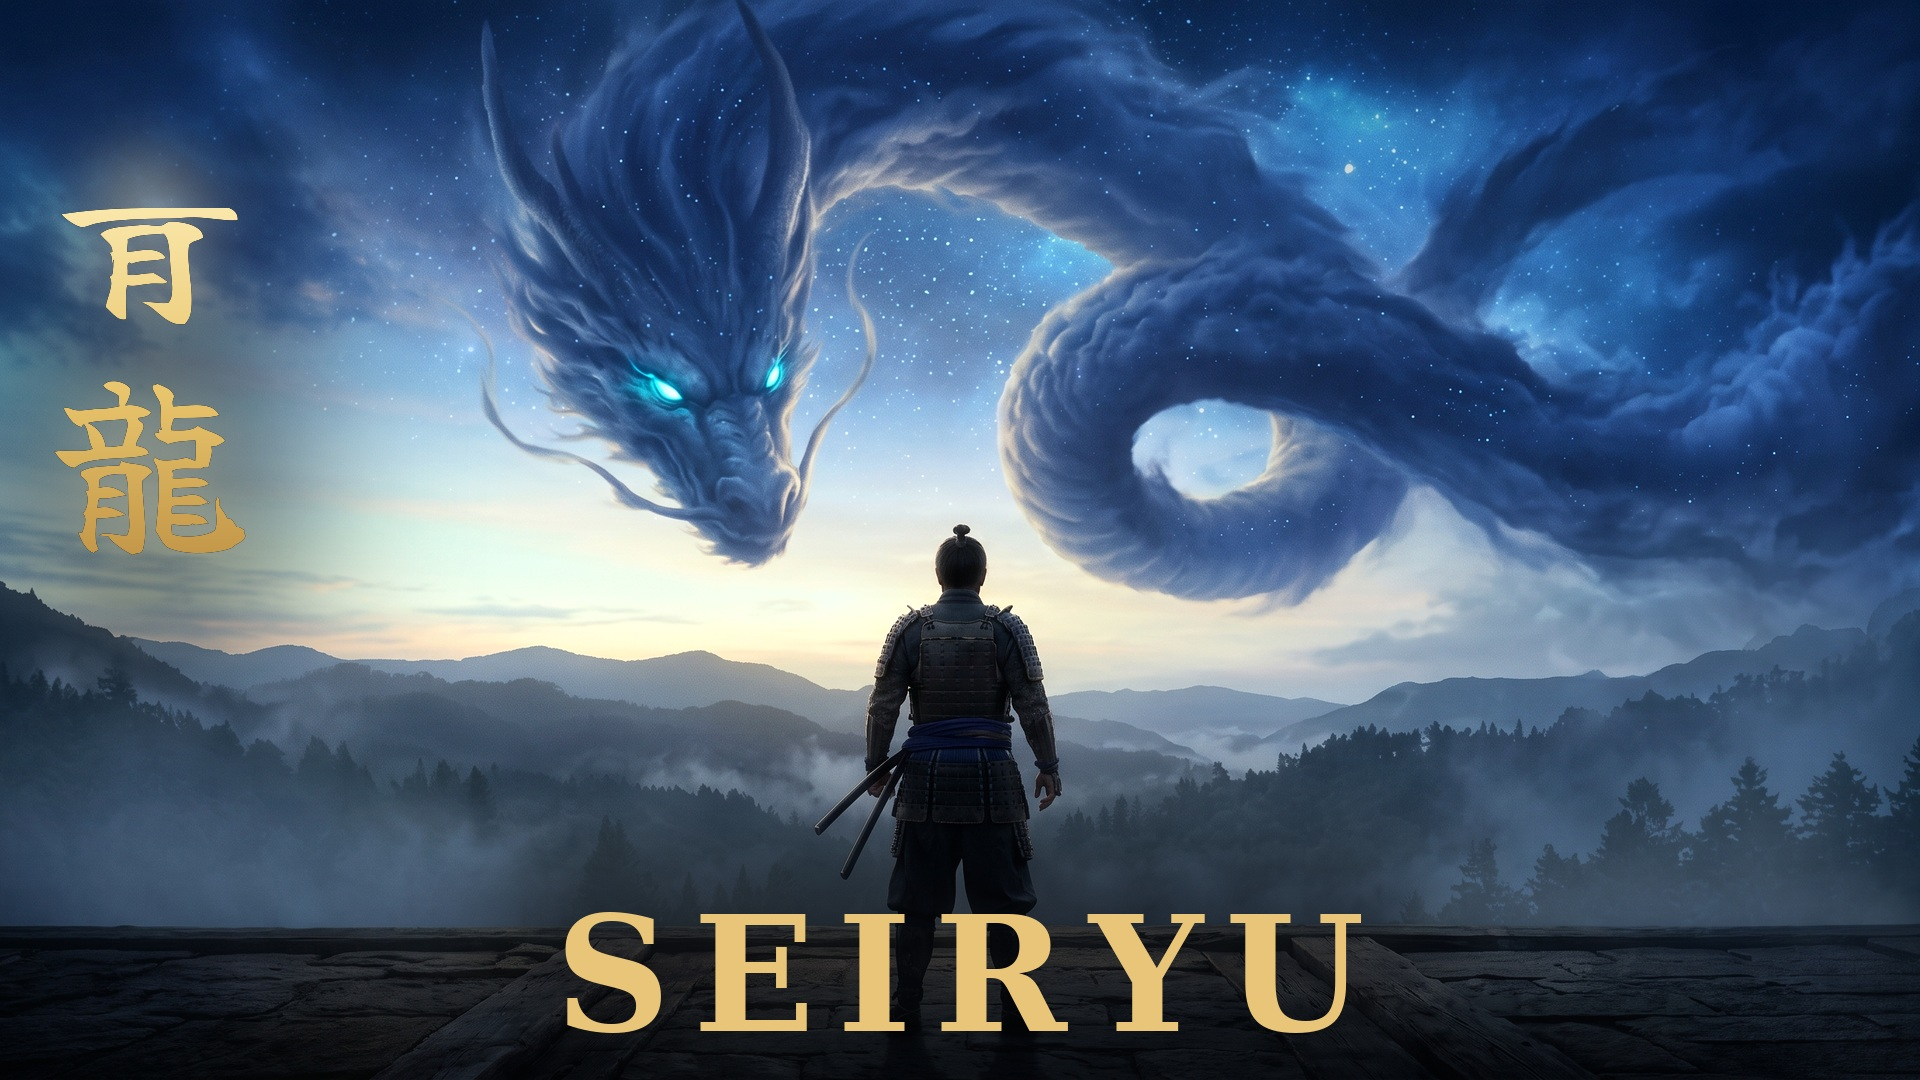
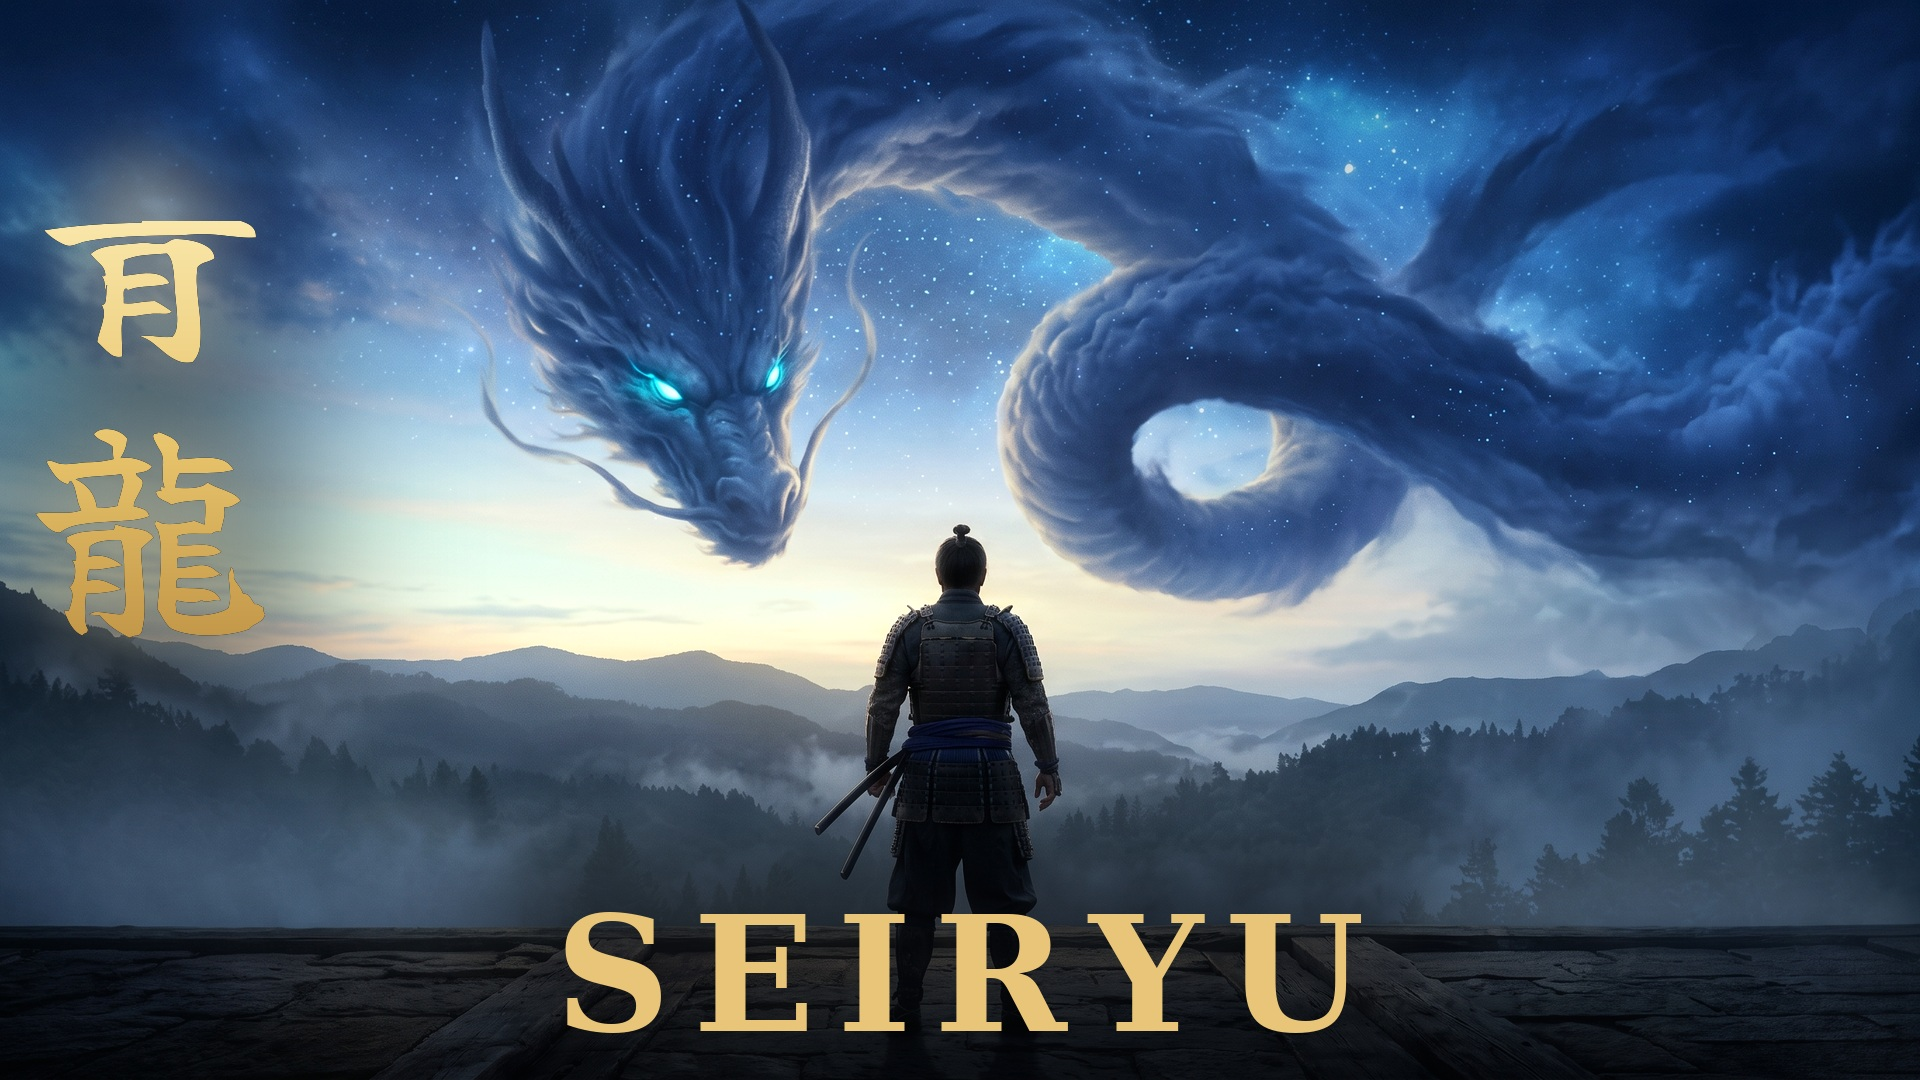
SEIRYU thumbnail: enlarge kanji 20% per user request

Changed region(s): [[0.0, 0.1833, 0.1562, 0.6722]]

diff --git a/stillwave/assets/seiryu-compose-thumb.py b/stillwave/assets/seiryu-compose-thumb.py
@@ -100,8 +100,8 @@ def spaced_centre(im, text, size, cx, y, fill=GOLD, ls=16, font=SERIF, scrim=Tru
 
 im = base()
 CENTRE = 960
-# 青龍 — VERTICAL calligraphic gold, left corner, in the dark starlit sky band
-gold_kanji_v(im, ["青", "龍"], 200, 150, 140, pitch=240, halo=30)
+# 青龍 — VERTICAL calligraphic gold, left corner, in the dark starlit sky band (size +20% per user request)
+gold_kanji_v(im, ["青", "龍"], 240, 150, 140, pitch=288, halo=32)
 # SEIRYU — large gold serif, low-centre on the dark foreground terrace stone
 spaced_centre(im, "SEIRYU", 160, CENTRE, 880, fill=GOLD, ls=22, font=SERIF)
 im.convert("RGB").save(OUT, quality=94)
